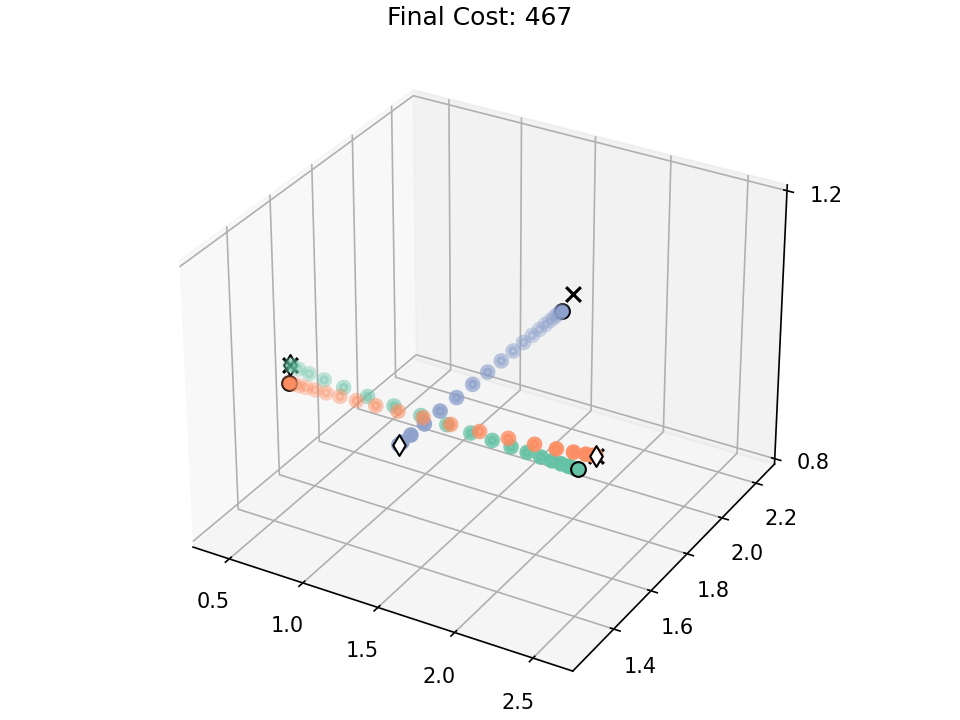
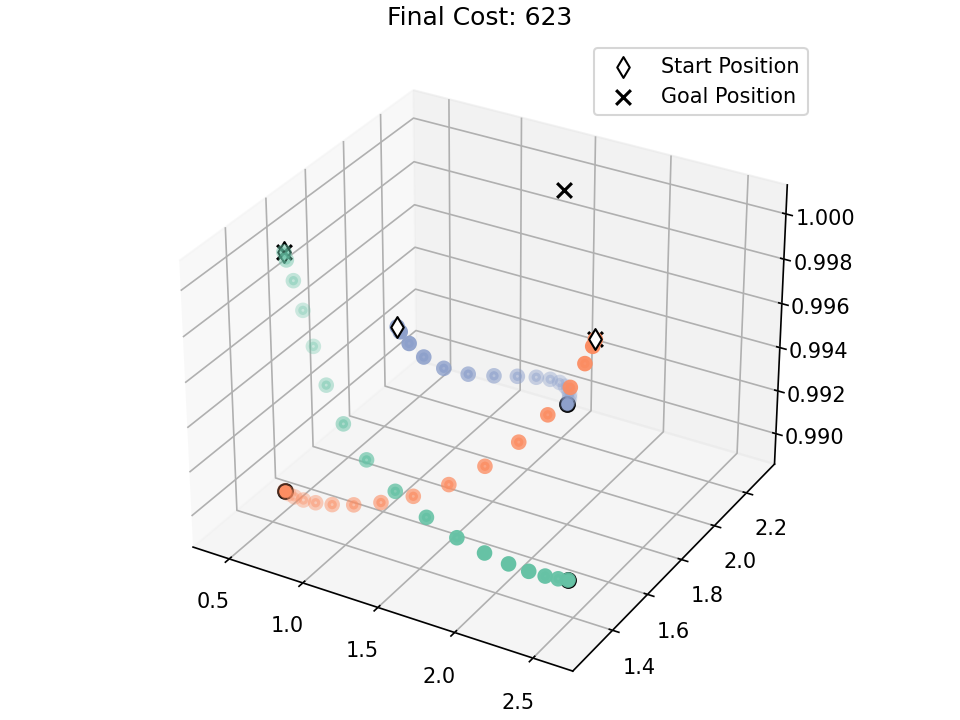
collision avoidance needs a high cost

diff --git a/distributed_ADMM/main.py b/distributed_ADMM/main.py
@@ -98,8 +98,8 @@ def solve_iteration(n_states, n_inputs, n_agents, x0, xr, T, radius, Q, R, Qf):
                         #Collision avoidance cost
                         for dist in distances:
                             # coll_cost += fmin(0,(dist - radius))**2 * 500
-                            coll_cost += fmin(0,(dist - 2*radius))**2 * 1000
-
+                            # coll_cost += fmin(0,(dist - 2*radius))**2 * 1000 #Works, but distnace falls below threshold
+                            coll_cost += fmin(0,(dist - 2*radius))**2 * 1200
                     #Trajectory smoothing term
                     for ind in range(nx):
                         smooth_trj_cost += (states[f"Y_{agent_id}"][:(T+1)*nx][(k+1)*nx:(k+2)*nx][ind]-\
